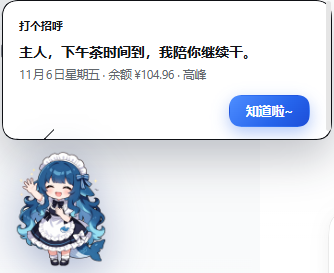
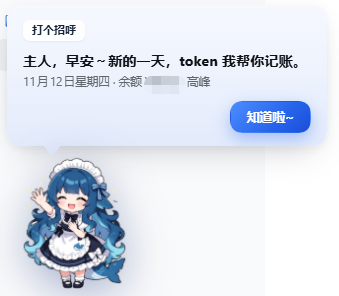
chore(release): v0.9.12

diff --git a/lib/client.js b/lib/client.js
@@ -26,7 +26,7 @@ window.__ModuleLoader__.load({
     const AVATAR_GREET = API + '/avatar.png?size=512&v=6&mood=greet'
     const AVATAR_THINK = API + '/avatar.png?size=512&v=6&mood=think'
     const HIT_MS = 1500
-    const BUILD = 'v0.9.11'
+    const BUILD = 'v0.9.12'
     /** 点鲸鱼刷新的最小间隔兜底（设置里的 clickCooldownMs 优先） */
     const CLICK_COOLDOWN_MS = 6000
     /** 刷新动效的最短展示时间：请求再快也让用户看见「正在刷新」 */
@@ -2772,7 +2772,18 @@ window.__ModuleLoader__.load({
           )
         : null
 
-      const bubbleToneColor = bubble && bubble.tone === 'warn' ? T.warn : T.brand
+      /* 气泡强调色：warn 用琥珀色，其余用真正的品牌蓝。
+         不能直接拿 --dsw-alias-brand-primary —— 亮色主题里它是近黑色（neutral-bluish-1000），
+         混出来的渐变会变成灰白卡片，所以这里用品牌蓝的专用 token。 */
+      const bubbleAccent =
+        bubble && bubble.tone === 'warn' ? T.warn : 'var(--dsw-alias-brand-primary-new-colorprimary-new-color, #4176e6)'
+      const bubbleTint = (pct) => 'color-mix(in srgb, ' + bubbleAccent + ' ' + pct + '%, ' + T.bg + ')'
+      const bubbleSurface =
+        'linear-gradient(180deg, ' + bubbleTint(5) + ' 0%, ' + bubbleTint(10) + ' 55%, ' + bubbleTint(15) + ' 100%)'
+      const bubbleTailFill = bubbleTint(15)
+      /* 和右下角常驻框同一族投影：中性、柔和、无描边，靠阴影立起来 */
+      const bubbleGlow = '0 14px 32px -14px rgba(15,23,42,0.26), 0 2px 8px rgba(15,23,42,0.05)'
+      const bubbleChipColor = 'color-mix(in srgb, ' + T.text + ' 82%, ' + bubbleAccent + ')'
       /* 气泡默认在鲸鱼上方；鲸鱼被拖到贴顶时上方装不下（播报会顶出窗口被裁），
          这时翻到下方。roomAbove = 鲸鱼顶边到窗口顶，roomBelow = 鲸鱼底边到窗口底。 */
       const roomAbove = vh - docked.ry - px
@@ -2800,64 +2811,76 @@ window.__ModuleLoader__.load({
         },
         bubble
           ? h(
+              /* 外层只负责定位：卡片本体是滚动容器（溢出要裁），尾巴必须挂在外层，
+                 否则会被 overflow 裁掉，只剩两条边框，看起来就是个 "<" */
               'div',
               {
-                key: bubble.key,
-                ref: bubbleBoxRef,
-                className: 'dsh-ds-whale-bubble',
+                key: bubble.key + ':wrap',
                 style: {
                   position: 'relative',
-                  pointerEvents: 'auto',
-                  width: 'min(296px, calc(100vw - 32px))',
-                  maxWidth: 'min(296px, calc(100vw - 32px))',
-                  /* 窗口很矮时上下都放不下，就限高 + 内部滚动，别被窗口裁掉 */
-                  maxHeight: bubbleMaxH,
-                  overflowY: 'auto',
-                  padding: '14px 16px 12px',
-                  borderRadius: 20,
-                  border: '1px solid ' + bubbleToneColor,
-                  background: T.bg,
-                  color: T.text,
-                  boxShadow: '0 18px 44px rgba(15,23,42,0.26)',
-                  fontSize: 13,
-                  lineHeight: 1.55
+                  width: 'min(288px, calc(100vw - 32px))',
+                  pointerEvents: 'none'
                 }
               },
-              /* 指向头像的小尾巴：气泡翻到下方时尾巴跟着翻到顶上 */
-              h('div', {
-                style: Object.assign(
-                  {
-                    position: 'absolute',
-                    ...(bubbleBelow ? { top: -6, borderTop: '1px solid ' + bubbleToneColor } : { bottom: -6, borderBottom: '1px solid ' + bubbleToneColor }),
-                    width: 12,
-                    height: 12,
-                    background: T.bg,
-                    transform: 'rotate(45deg)'
-                  },
-                  dockedLeft
-                    ? { left: 44, borderLeft: '1px solid ' + bubbleToneColor }
-                    : { right: 44, borderRight: '1px solid ' + bubbleToneColor }
-                )
-              }),
               h(
                 'div',
                 {
+                  key: bubble.key,
+                  ref: bubbleBoxRef,
+                  className: 'dsh-ds-whale-bubble',
                   style: {
-                    display: 'inline-flex',
-                    alignItems: 'center',
-                    gap: 5,
-                    fontSize: 10.5,
-                    fontWeight: 700,
-                    letterSpacing: '.4px',
-                    color: bubbleToneColor,
-                    marginBottom: 6,
-                    textTransform: 'uppercase'
+                    position: 'relative',
+                    pointerEvents: 'auto',
+                    width: '100%',
+                    /* 窗口很矮时上下都放不下，就限高 + 内部滚动，别被窗口裁掉 */
+                    maxHeight: bubbleMaxH,
+                    overflowY: 'auto',
+                    padding: '14px 16px 13px',
+                    borderRadius: 18,
+                    background: bubbleSurface,
+                    color: T.text,
+                    boxShadow: bubbleGlow,
+                    fontSize: 12.8,
+                    lineHeight: 1.55
                   }
                 },
-                bubbleHeadline(bubble)
-              ),
-              h('div', { style: { fontSize: 14, fontWeight: 700, lineHeight: 1.5, marginBottom: 4 } }, bubble.title),
-              bubble.sub ? h('div', { style: { color: T.sub, fontSize: 11.5, lineHeight: 1.5 } }, bubble.sub) : null,
+                h(
+                  'div',
+                  {
+                    style: {
+                      display: 'inline-flex',
+                      alignItems: 'center',
+                      gap: 5,
+                      padding: '3px 9px',
+                      marginBottom: 9,
+                      borderRadius: 9,
+                      fontSize: 11,
+                      fontWeight: 700,
+                      lineHeight: 1.35,
+                      letterSpacing: 0,
+                      color: bubbleChipColor,
+                      background: 'color-mix(in srgb, ' + T.bg + ' 88%, transparent)',
+                      boxShadow: '0 1px 2px rgba(15,23,42,0.05)'
+                    }
+                  },
+                  bubbleHeadline(bubble)
+                ),
+                h(
+                  'div',
+                  {
+                    style: {
+                      fontSize: 14,
+                      fontWeight: 700,
+                      lineHeight: 1.5,
+                      letterSpacing: '.2px',
+                      color: T.text
+                    }
+                  },
+                  bubble.title
+                ),
+                bubble.sub
+                  ? h('div', { style: { color: T.sub, fontSize: 11.5, lineHeight: 1.6, marginTop: 2 } }, bubble.sub)
+                  : null,
               /* 第一次用天气：输入框直接长在气泡里，填完按保存就走，不用去设置页翻 */
               bubble.cityPrompt
                 ? h(
@@ -2906,7 +2929,7 @@ window.__ModuleLoader__.load({
                 : null,
               h(
                 'div',
-                { style: { marginTop: 12, display: 'flex', gap: 8, justifyContent: 'flex-end', alignItems: 'center' } },
+                { style: { marginTop: 10, display: 'flex', gap: 8, justifyContent: 'flex-end', alignItems: 'center' } },
                 bubble.link
                   ? h(
                       'a',
@@ -2945,6 +2968,7 @@ window.__ModuleLoader__.load({
                         className:
                           'dsh-ds-whale-btn ' +
                           (bubble.link ? 'dsh-ds-whale-btn-ghost' : 'dsh-ds-whale-btn-primary'),
+                        style: { padding: '7px 16px', fontSize: 12.5 },
                         onClick: (e) => {
                           e.stopPropagation()
                           setBubble(null)
@@ -2953,6 +2977,33 @@ window.__ModuleLoader__.load({
                       },
                       bubble.action || tt('知道啦~')
                     )
+                )
+              ),
+              /* 气泡尾巴：没有描边，和卡片同一个渐变底色，上沿压进卡片 4px，只靠填充贴着卡片下沿伸出去 */
+              h(
+                'svg',
+                {
+                  key: bubble.key + ':tail',
+                  width: 24,
+                  height: 16,
+                  viewBox: '0 0 24 16',
+                  style: Object.assign(
+                    {
+                      position: 'absolute',
+                      display: 'block',
+                      width: 24,
+                      height: 16,
+                      overflow: 'visible',
+                      pointerEvents: 'none'
+                    },
+                    bubbleBelow ? { top: -12, transform: 'rotate(180deg)' } : { bottom: -12 },
+                    dockedLeft ? { left: 33 } : { right: 33 }
+                  )
+                },
+                h('path', {
+                  d: 'M0.6 0 L23.4 0 L13.6 12.4 Q12 15.2 10.4 12.4 Z',
+                  style: { fill: bubbleTailFill }
+                })
               )
             )
           : null

diff --git a/lib/index.js b/lib/index.js
@@ -1047,7 +1047,7 @@ async function fetchBalanceFromAccount(ctx) {
   const account = svc(ctx, 'deepseekAccount')
   if (!account || typeof account.getBalance !== 'function') return { skipped: 'no-account-service' }
   const meta = {
-    version: '0.9.11',
+    version: '0.9.12',
     locale: 'zh',
     timezoneOffsetSeconds: -(new Date().getTimezoneOffset() * 60)
   }
@@ -1939,7 +1939,7 @@ function statePayload(ctx, store, extra) {
   return Object.assign(
     {
       ok: true,
-      version: '0.9.11',
+      version: '0.9.12',
       settings: Object.assign({}, st.settings),
       balance: st.balance,
       balanceAge: st.balanceFetchedAt ? now - st.balanceFetchedAt : null,

diff --git a/README.md b/README.md
@@ -8,7 +8,7 @@
 
 **简体中文** · [English](README.en.md)
 
-[![version](https://img.shields.io/badge/version-0.9.11-blue)](CHANGELOG.md)
+[![version](https://img.shields.io/badge/version-0.9.12-blue)](CHANGELOG.md)
 [![license](https://img.shields.io/badge/license-MIT-green)](LICENSE)
 [![platform](https://img.shields.io/badge/platform-DSH%20Web%20UI-purple)](https://github.com/Iceseas)
 

diff --git a/README.en.md b/README.en.md
@@ -8,7 +8,7 @@
 
 [简体中文](README.md) · **English**
 
-[![version](https://img.shields.io/badge/version-0.9.11-blue)](CHANGELOG.md)
+[![version](https://img.shields.io/badge/version-0.9.12-blue)](CHANGELOG.md)
 [![license](https://img.shields.io/badge/license-MIT-green)](LICENSE)
 [![platform](https://img.shields.io/badge/platform-DSH%20Web%20UI-purple)](https://github.com/Iceseas)
 

diff --git a/CHANGELOG.md b/CHANGELOG.md
@@ -2,6 +2,10 @@
 
 本项目从本机自用版本一路演进到可发布形态，版本号按改动规模重定：`0.9.0` 视为「首个可对外安装的开发版」，仍属 0.x，接口与界面可能继续调整。
 
+## 0.9.12 — 2026-11-12
+
+- 重构气泡样式，变的更圆润，配色更符合大众审美
+
 ## 0.9.11 — 2026-11-10
 
 - 修形象大小滑块拖动卡顿
